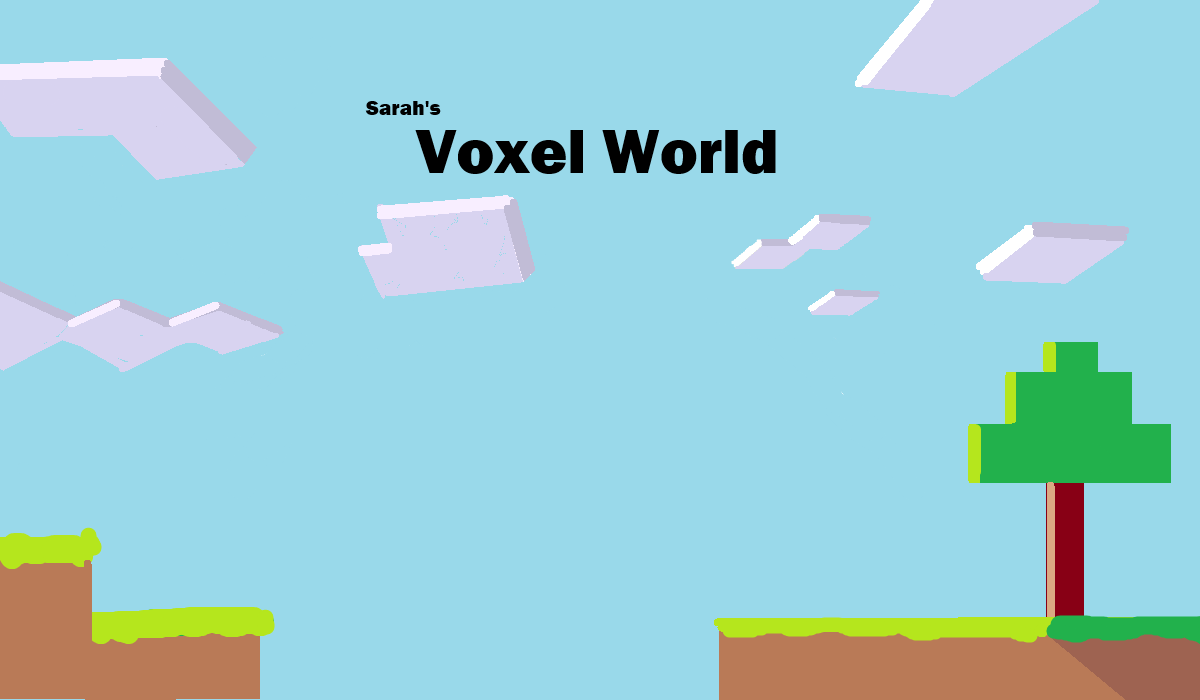
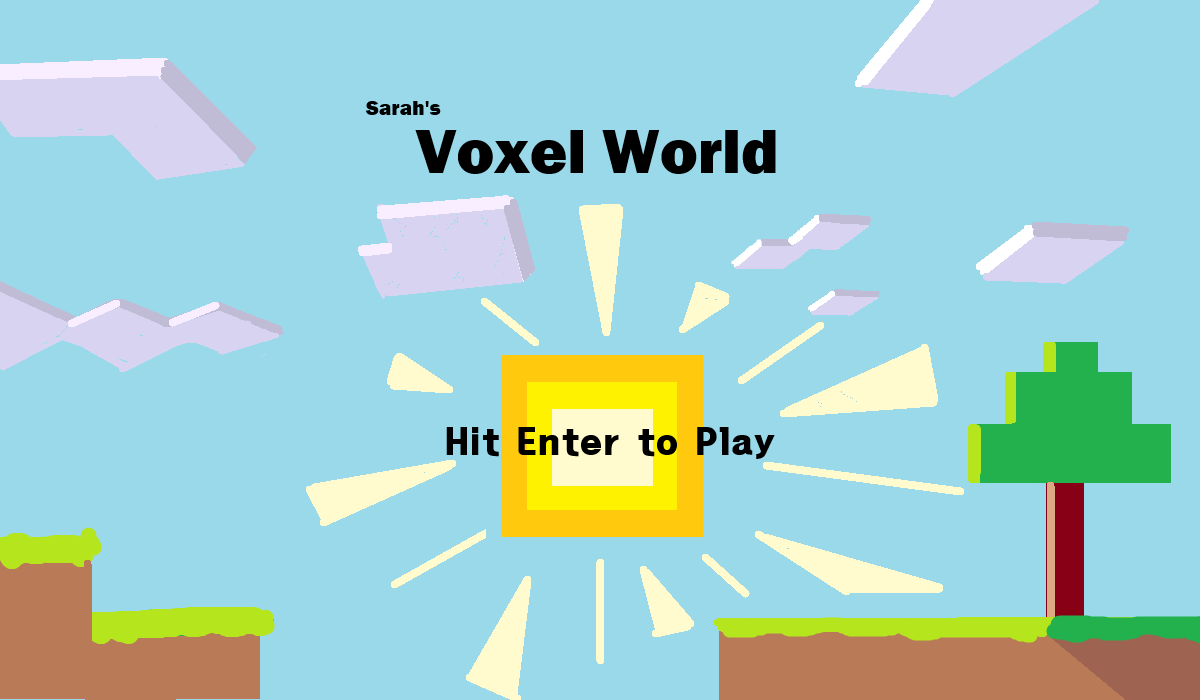
fix start screen undrawn issue
lol that enabling depth test in game screen constructor was the cause

diff --git a/StartScreen.h b/StartScreen.h
@@ -25,14 +25,15 @@ private:
 	VAO vao = VAO();
 	VBO vbo = VBO(vertices.data(), sizeof(GLfloat) * vertices.size(), GL_STATIC_DRAW);
     EBO ebo = EBO(indices.data(), sizeof(GLuint) * indices.size(), GL_STATIC_DRAW);
-    Texture texture = Texture("menu_background.png", GL_TEXTURE_2D, GL_TEXTURE0, GL_RGBA, GL_UNSIGNED_BYTE);
     Shader shader = Shader("2d_component.vert", "2d_component.frag");
+    Texture texture = Texture("menu_background.png", GL_TEXTURE_2D, GL_TEXTURE0, GL_RGBA, GL_UNSIGNED_BYTE);
 public:
     StartScreen() {
         vao.bind();
         vao.link_attrib(vbo, 0, 3, GL_FLOAT, GL_FALSE, sizeof(GLfloat) * 5, (void*)0);
         vao.link_attrib(vbo, 1, 2, GL_FLOAT, GL_FALSE, sizeof(GLfloat) * 5, (void*)(3 * sizeof(GLfloat)));
         texture.set_unit(shader, "texture1", 0);
+        texture.set_unit(shader, "use_texture", GL_TRUE);
         music::moog_city2.play();
     };
 
@@ -41,10 +42,10 @@ public:
             music::moog_city2.update_buffer_stream();
         }
         shader.activate();
-        vao.bind();
-        ebo.bind();
         texture.activate(GL_TEXTURE0);
         texture.bind();
+        vao.bind();
+        ebo.bind();
         glDrawElements(GL_TRIANGLES, indices.size(), GL_UNSIGNED_INT, 0);
     };
 };

diff --git a/GameScreen.h b/GameScreen.h
@@ -21,9 +21,15 @@ private:
 	Shader shader = Shader("default.vert", "default.frag");
 	Texture texture = Texture("texture_atlas.png", GL_TEXTURE_2D, GL_TEXTURE1, GL_RGBA, GL_UNSIGNED_BYTE);
 	bool wireframe = false;
+	bool gl_setting_done = false;
 public:
 	GameScreen(WindowSetting *setting) 
 	: window_setting(setting), cam(Camera(setting->window, setting->width, setting->height, vec3(0, 60, 0))), terrain(Terrain(cam.position)) {
+		texture.set_unit(shader, "texture1", 1);
+	}
+
+	void gl_settings() {
+		if (gl_setting_done) return;
 		glEnable(GL_DEPTH_TEST);
 		glBlendFunc(GL_SRC_ALPHA, GL_ONE_MINUS_SRC_ALPHA);
 		glEnable(GL_BLEND);
@@ -31,7 +37,7 @@ public:
 		//glCullFace is set to cull back face and glFrontFace is CCW by default. So, I tell gl that front faces are winded in counter wise.
 		glEnable(GL_CULL_FACE);
 		glFrontFace(GL_CW);
-		texture.set_unit(shader, "texture1", 1);
+		gl_setting_done = true;
 	}
 
 	void draw() {

diff --git a/Main.cpp b/Main.cpp
@@ -52,10 +52,11 @@ int main() {
 		process_inputs(window);
 
 		if (start_game) {
+			game_screen.gl_settings();
 			game_screen.draw();
 		}
 		else {
-			start_screen.draw(); //this is blank. but music runs, so it means start screen is drawn
+			start_screen.draw(); 
 		}
 		
 		glfwSwapBuffers(window); //swap the color buffer and displays its output to the screen
